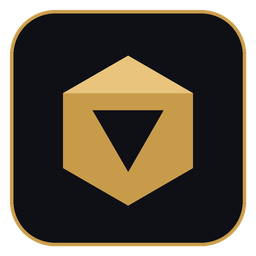
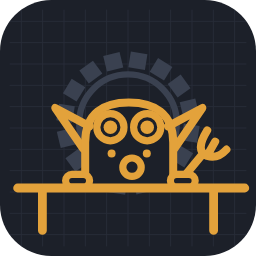
Iconos nuevos: el goblin asomado a la mesa
- icon.svg, maskable.svg y todos los PNG (192, 512, maskable, Apple, 32 y
  icon.png) redibujados con la mascota nueva: goblin con gafas sobre la
  mesa, engranaje y cuadrícula de fondo.
- favicon.svg: versión simplificada para la pestaña, como la de 48 px, que
  la completa se emborrona a ese tamaño.
- La pantalla de entrada enseña el icono en vez del escudo.
- Service worker: guarda también favicon.svg y sube de versión.

Claude-Session: https://claude.ai/code/session_014NWSH7kqstyiRUEJK8ZZwZ

diff --git a/mesa/mesa/public/css/mesa.css b/mesa/mesa/public/css/mesa.css
@@ -1082,9 +1082,8 @@ body.screen { background: #05060a; overflow: hidden; }
 /* ---------- Entrada ---------- */
 .gate .panel { padding: 28px 26px 22px; }
 .gate-logo {
-  width: 58px; height: 58px; margin: 0 auto 10px; display: grid; place-items: center; border-radius: 16px;
-  color: #22190a; background: linear-gradient(160deg, var(--gold-soft), #a87a2a);
-  box-shadow: 0 10px 30px rgba(200, 155, 74, .25);
+  display: block; width: 64px; height: 64px; margin: 0 auto 10px; border-radius: 13px;
+  box-shadow: 0 10px 30px rgba(227, 162, 59, .18);
 }
 .roles button { display: grid; justify-items: center; gap: 3px; padding: 14px 6px 12px; transition: border-color .15s, background .15s; }
 .roles button .ico { color: var(--dim); margin-bottom: 2px; }

diff --git a/mesa/mesa/public/sw.js b/mesa/mesa/public/sw.js
@@ -14,7 +14,7 @@
    Todas las rutas son relativas al sitio donde vive Mesa: en GitHub Pages es
    una subcarpeta (/DnD/), no la raíz. */
 
-const VERSION = "mesa-2.6.0";
+const VERSION = "mesa-2.6.1";
 const SHELL_CACHE = VERSION + "-app";
 const IMG_CACHE = "mesa-img";
 const IMG_LIMIT = 80;
@@ -25,7 +25,7 @@ const SHELL = [
   "./",
   "css/mesa.css",
   "manifest.webmanifest",
-  "icons/icon.svg",
+  "icons/icon.svg", "icons/favicon.svg",
   "icons/icon-192.png",
   "js/main.js", "js/net.js", "js/util.js", "js/i18n.js", "js/icons.js",
   "js/schema.js", "js/catalog.js", "js/los.js", "js/map.js", "js/dice.js",

diff --git a/mesa/mesa/public/index.html b/mesa/mesa/public/index.html
@@ -7,7 +7,7 @@
 <meta name="color-scheme" content="dark">
 <meta name="description" content="Partida de D&amp;D en red: una vista para el DM, otra para cada jugador y otra para la tele.">
 <title>Mesa · partida de D&amp;D</title>
-<link rel="icon" href="icons/icon.svg" type="image/svg+xml">
+<link rel="icon" href="icons/favicon.svg" type="image/svg+xml">
 <link rel="icon" href="icons/favicon-32.png" sizes="32x32" type="image/png">
 <link rel="apple-touch-icon" href="icons/apple-touch-icon.png">
 <meta name="apple-mobile-web-app-capable" content="yes">

diff --git a/mesa/mesa/public/js/main.js b/mesa/mesa/public/js/main.js
@@ -57,7 +57,7 @@ async function gate(wanted) {
   app().className = "gate";
   app().innerHTML = `
     <div class="panel">
-      <div class="gate-logo">${icon("shield", 30)}</div>
+      <img class="gate-logo" src="icons/icon.svg" alt="" width="64" height="64">
       <h1>Mesa</h1>
       <p class="sub">${esc(info.title || "Partida de D&D")}</p>
       ${DEMO ? `<div class="demo-note">
